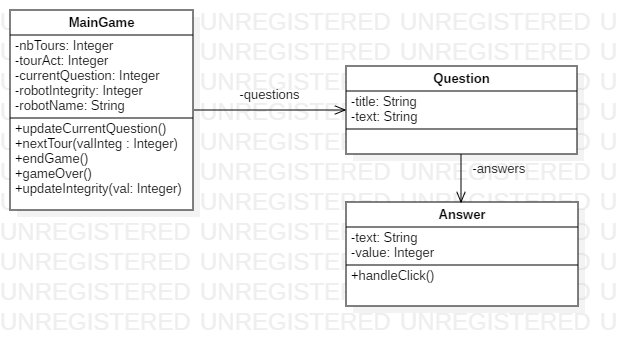
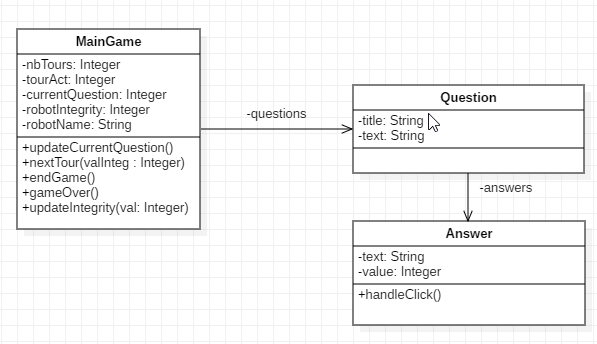
ajout du MCD au Readme

Changed region(s): [[0.0, 0.0291, 0.995, 0.9593]]

diff --git a/README.md b/README.md
@@ -73,16 +73,17 @@ L'interface en développement à légerement changée pour afficher différentes
 Les choix s'effectuant ainsi en cliquant sur des boutons de choix en dessous de chaque question.
 
 Interface de creation de robot et de parametrage d'une partie :
-![alt text](./ressources_readme/interface_connexion.png)
+![Interface de creation de robot](./ressources_readme/interface_connexion.png)
 
 Interface de jeu :
-![alt text](./ressources_readme/interface_jeu.png)
+![Interface de jeu](./ressources_readme/interface_jeu.png)
 
 Interface de jeu avec affichage du volet des lois d'Asimov :
-![alt text](./ressources_readme/affichage_volet_lois.png)
+![volet des lois d'Asimov](./ressources_readme/affichage_volet_lois.png)
 
 ### MCD
 Modele de donneés du jeu
+![MCD](./ressources_readme/uml_t4_image.png)
 
 
 ## Utilisation de l'app web
